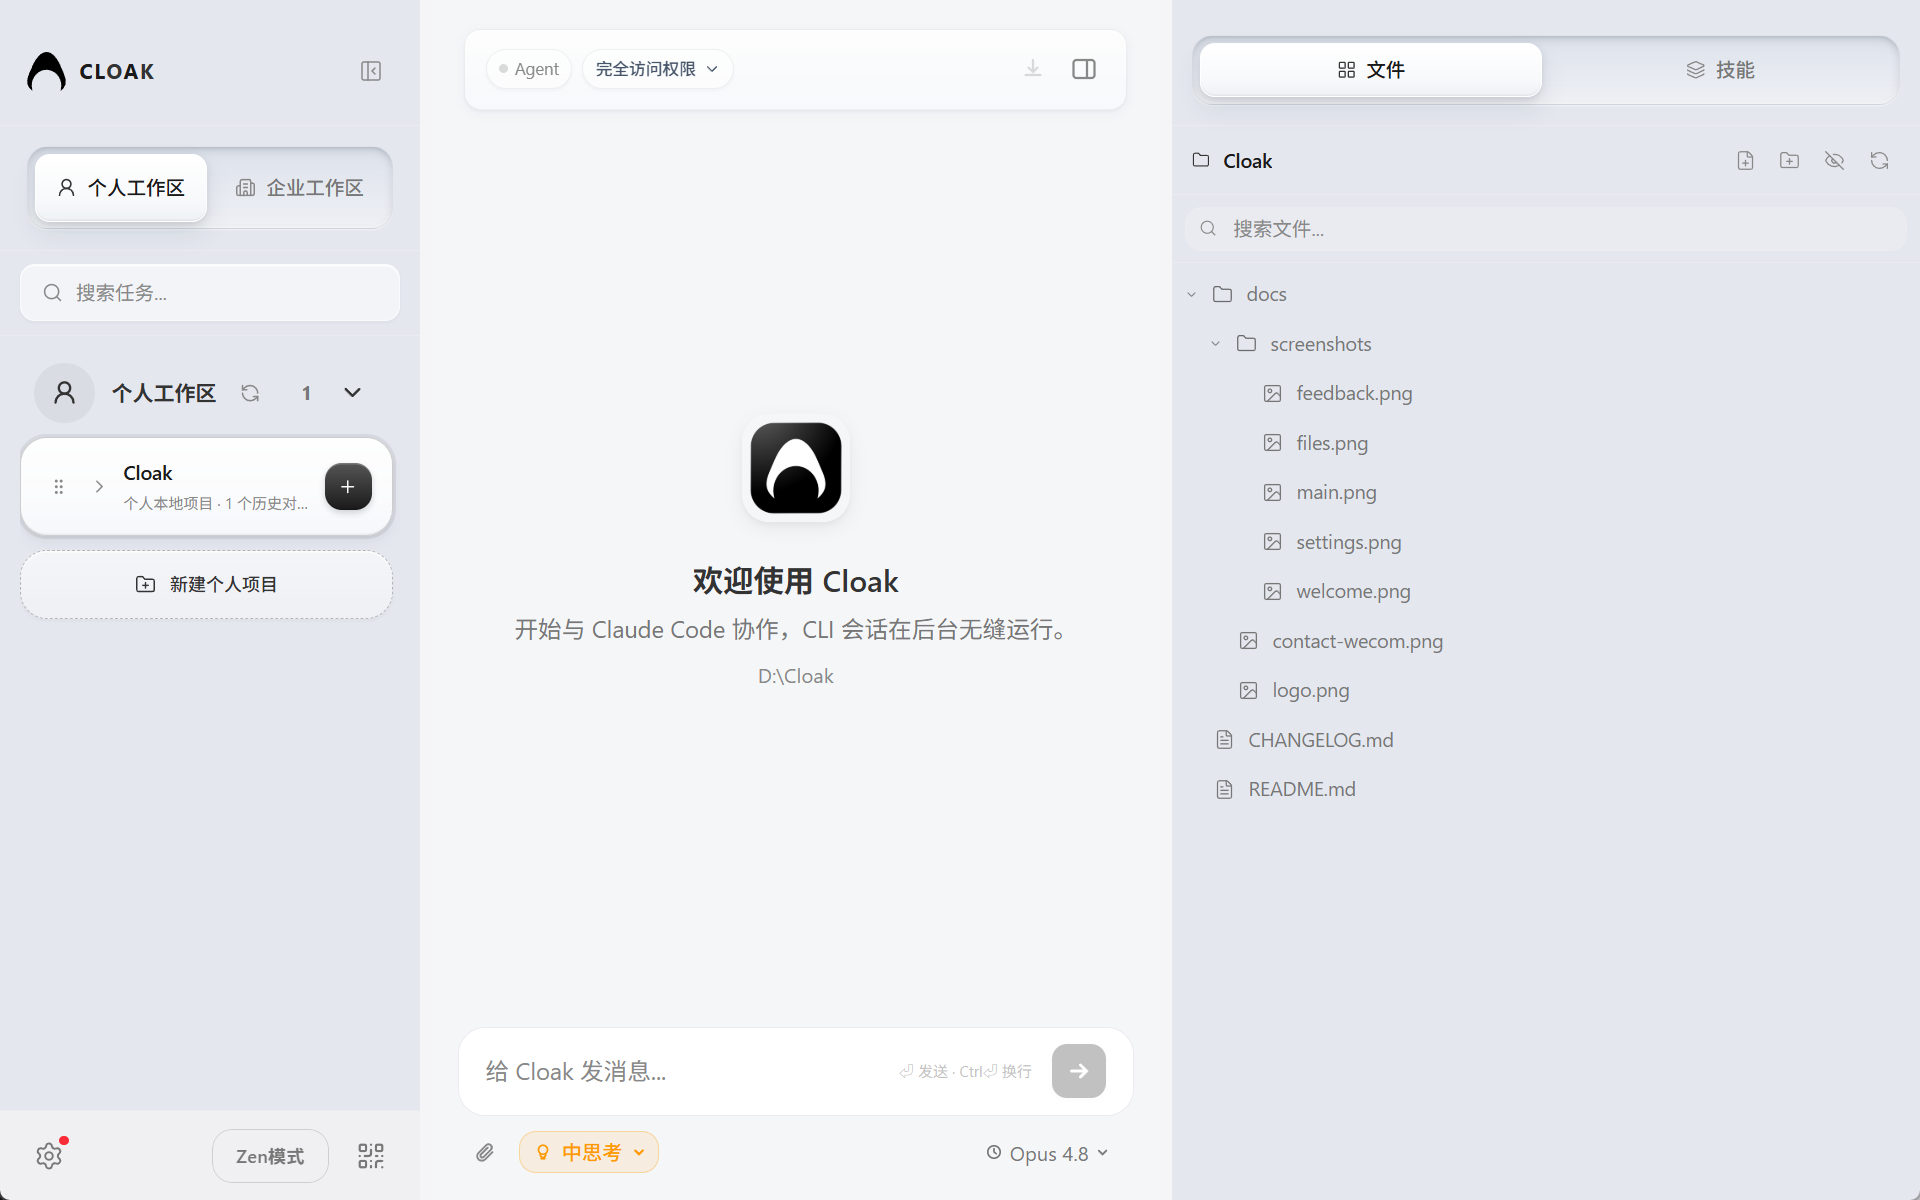
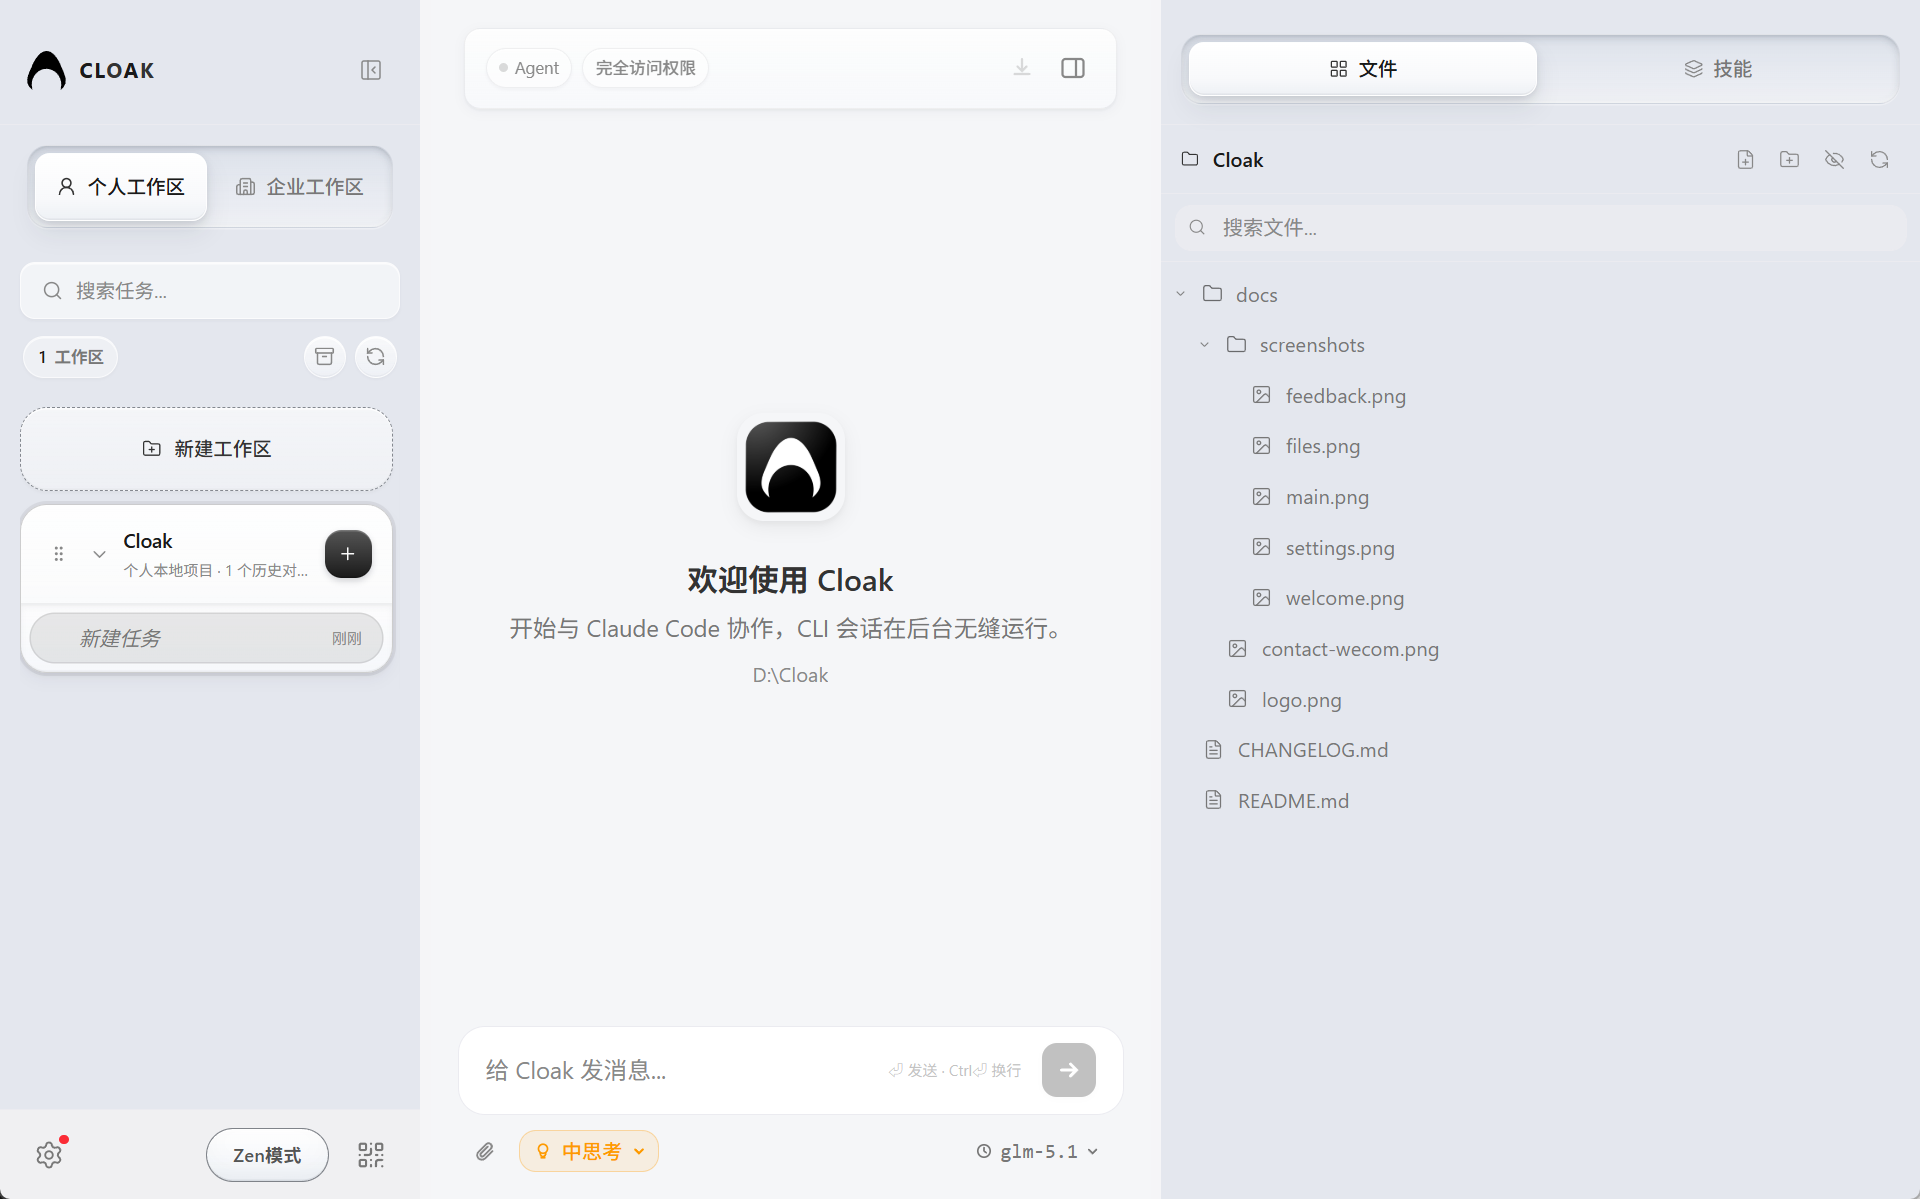
docs: update Cloak README and screenshots

diff --git a/CHANGELOG.md b/CHANGELOG.md
@@ -2,6 +2,26 @@
 
 完整发布页见 [43-COLLEGE-TEAM/Cloak Releases](https://github.com/43-COLLEGE-TEAM/Cloak/releases)。
 
+## v0.1.11
+
+发布日期：2026-06-02
+
+- 新增专注模式，在更简洁的界面里完成输入、文件查看和语音相关操作。
+- 支持多组织登录，企业成员在不同组织之间切换更方便。
+- 对话列表新增未读相关操作，便于回到需要继续处理的对话。
+- 优化模型切换后的显示一致性，减少选了服务商后模型没有同步变化的情况。
+- 优化桌面宠物显示层级和设置页体验，减少遮挡和滚动异常。
+
+## v0.1.10
+
+发布日期：2026-06-01
+
+- 优化左侧工作区和项目列表，展开、收起、切换和新建项目更稳定。
+- 新增更多项目皮肤，并优化项目卡片尺寸和拖动时的显示效果。
+- 服务商和模型列表支持从云端更新，新增或调整模型时不必重新安装客户端。
+- 优化服务商配置表单，减少填写 API Key、模型和接口地址时的理解成本。
+- 修复工作区切换后的布局回退问题，提升侧栏整体稳定性。
+
 ## v0.1.9
 
 发布日期：2026-05-31
